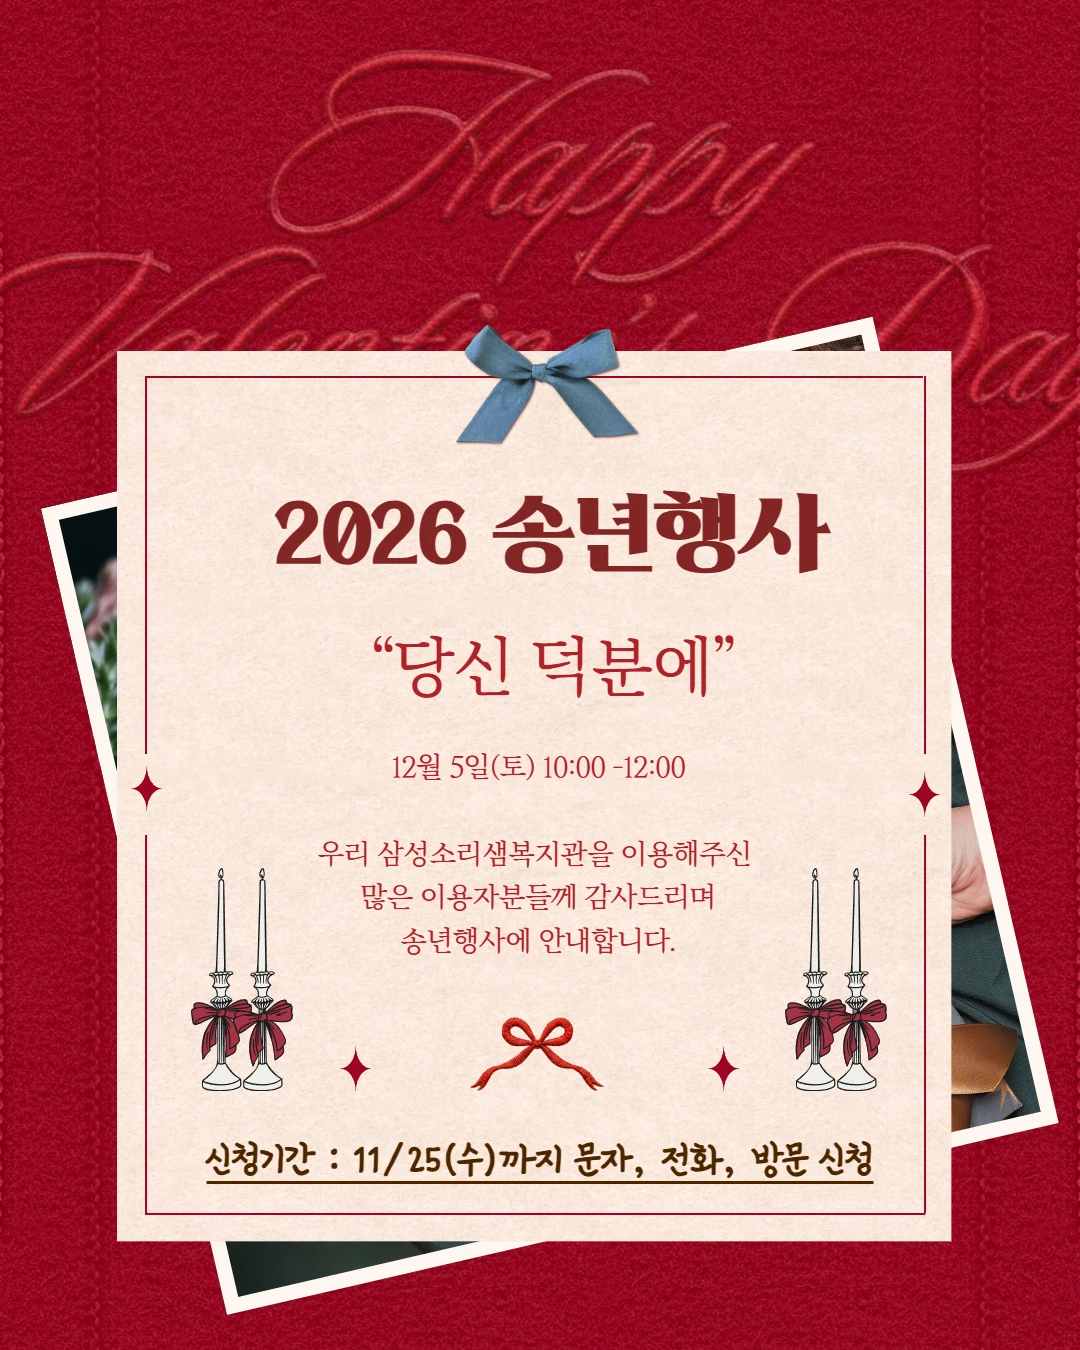
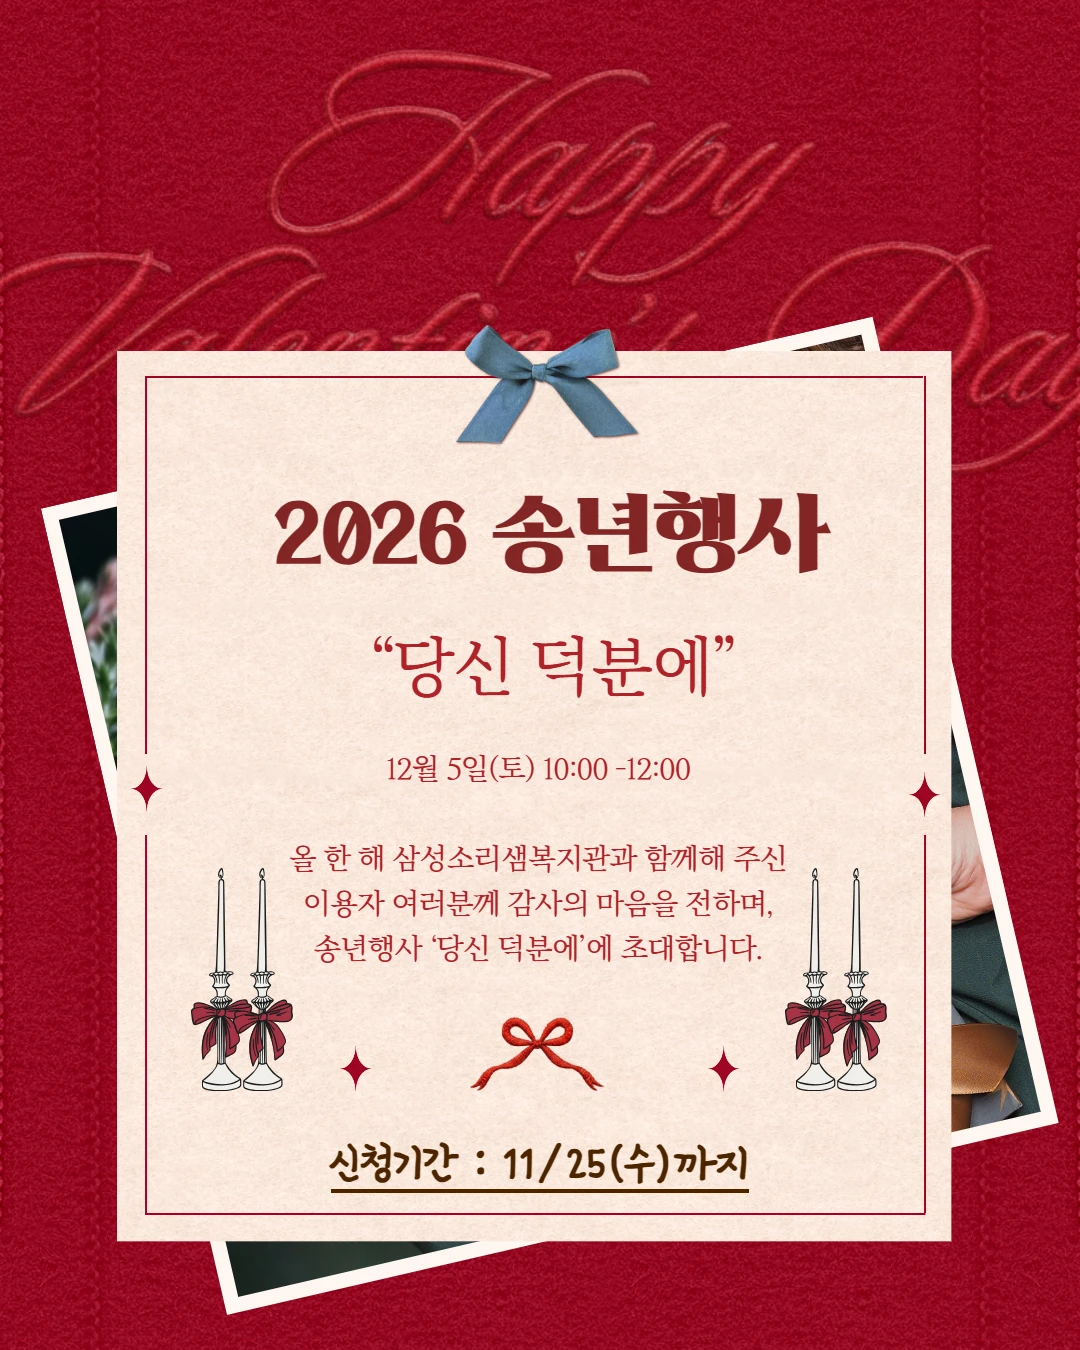
초대장 이미지 교체, 신청 방법 개편, 공유하기 삭제
- 1·2번 섹션 이미지를 새 디자인으로 교체
- 신청 방법: 온라인 신청 버튼, 문의, 문자 신청 안내 순서로 재구성 (배경은 유지)
- 11/25 마감 이후 참가 신청 버튼 비활성화
- 핸드폰번호는 숫자만 받고 '-' 자동 입력, 생년월일은 숫자와 '.'만
- 공유하기 섹션과 카카오 SDK 삭제

Changed region(s): [[0.275, 0.6222, 0.7333, 0.7156], [0.1833, 0.84, 0.825, 0.9022], [0.3667, 0.56, 0.6417, 0.5911]]

diff --git a/index.html b/index.html
@@ -87,36 +87,19 @@
   .sprig--bl { bottom: -50px; left: -22px; transform: scaleY(-1) rotate(10deg); }
   .sprig--br { bottom: -50px; right: -22px; transform: scale(-1, -1) rotate(10deg); }
 
-  .lead { font-family: "Jua", sans-serif; font-size: 1.5rem; margin: 0 0 1.4rem; color: var(--ink); }
-  .contact { margin: 0 auto 1.6rem; display: grid; gap: .5rem; font-size: 1.12rem; }
-  .contact div { display: flex; flex-wrap: wrap; justify-content: center; gap: 0 .5em; }
-  .contact dt { font-family: "Jua", sans-serif; }
-  .contact dd { margin: 0; }
-  .contact a { color: var(--holly); font-weight: 700; text-underline-offset: 3px; }
-  .deadline {
-    display: inline-block; margin: 0 0 1.2rem; padding: .35em 1em;
-    font-family: "Jua", sans-serif; font-size: 1.1rem; color: #fff;
-    background: var(--holly); border-radius: 999px;
+  .lead { font-size: 1.3rem; margin: 0 0 1.6rem; color: var(--ink); }
+  .ask-title { margin-top: 2.2em; }
+  .ask {
+    display: block; max-width: 460px; margin: 0 auto 1.8rem; padding: .5em 1em; border-radius: 14px;
+    font: 400 1.35rem/1.3 "Jua", sans-serif; color: #fff; text-decoration: none;
+    background: #d13a34; box-shadow: 0 3px 0 #7c1520;
   }
-
-  .divider { display: flex; align-items: center; justify-content: space-between; width: min(100%, 360px); height: 10px; margin: 1.4rem auto; position: relative; }
-  .divider::before { content: ""; position: absolute; left: 0; right: 0; top: 50%; height: 1px; background: var(--holly); opacity: .7; }
-  .divider i { position: relative; width: 9px; height: 9px; background: var(--holly); transform: rotate(45deg); }
-  .divider i:first-child { margin-left: 18%; }
-  .divider i:last-child { margin-right: 18%; }
-
-  .howto p { margin: 0; font-size: 1.1rem; }
-  .howto .label { font-family: "Jua", sans-serif; font-size: 1.25rem; margin-bottom: .2rem; }
-  .sample {
-    margin: 1.4rem auto 0; padding: 14px 18px; max-width: 420px;
-    border: 1.5px dashed rgba(179, 32, 46, .5); border-radius: 14px;
-    font-size: 1.05rem; background: rgba(255, 255, 255, .45);
-  }
-  .howto .sample { margin: 1.4rem auto 0; }
+  .ask:hover { background: #c4283a; }
+  .howto p { margin: 0; font-size: 1.1rem; color: #1d1410; }
+  .howto .label { font-family: "Jua", sans-serif; font-size: 1.2rem; margin-top: 1.4rem; }
   .nw { white-space: nowrap; }
-  .sample strong { font-family: "Jua", sans-serif; font-weight: 400; display: block; color: var(--holly); }
 
-  .actions { display: grid; grid-template-columns: 1fr 1fr; gap: 10px; margin-top: 2rem; }
+  .actions { display: grid; grid-template-columns: 1fr 1fr; gap: 14px; max-width: 460px; margin: 0 auto; }
   .btn {
     display: inline-flex; align-items: center; justify-content: center; gap: .4em;
     min-height: 54px; padding: 0 16px; border-radius: 12px;
@@ -124,6 +107,7 @@
     border: 2px solid transparent; transition: transform .15s ease, background-color .15s ease;
   }
   .btn:active { transform: translateY(1px); }
+  .btn:disabled { background: #b9ada0; color: #fff; box-shadow: none; cursor: default; transform: none; }
   .btn--holly { background: var(--holly); color: #fff; box-shadow: 0 3px 0 #7c1520; }
   .btn--holly:hover { background: #c4283a; }
   .btn--pine { background: var(--pine); color: var(--paper-hi); box-shadow: 0 3px 0 #0d1d14; }
@@ -176,16 +160,6 @@
   .btn--naver:hover { background: #02b351; }
   .btn--kakao { background: #fee500; color: #191600; }
   .btn--kakao:hover { background: #f5dc00; }
-
-  /* ---------- 5. 공유 ---------- */
-  .share { padding: 64px 0 72px; text-align: center; color: var(--paper-hi); }
-  .share h2 { color: var(--paper-hi); font-size: clamp(2rem, 8.5vw, 2.7rem); }
-  .share p { margin: 0 0 1.6rem; font-size: 1.08rem; opacity: .9; }
-  .share-actions { display: grid; grid-template-columns: repeat(3, 1fr); gap: 10px; }
-  .share-actions .btn { flex-direction: column; min-height: 92px; gap: .55em; font-size: 1rem; padding: 0 8px; }
-  .share-actions svg { width: 28px; height: 28px; }
-  .btn--glass { background: rgba(255, 255, 255, .1); color: #fff; border-color: rgba(255, 255, 255, .35); }
-  .btn--glass:hover { background: rgba(255, 255, 255, .18); }
 
   /* ---------- 모달 ---------- */
   dialog {
@@ -290,7 +264,6 @@
     .gate-inner { padding: 0 36px; }
     .card { padding: 52px 18px 40px; }
     .map-actions { grid-template-columns: 1fr; }
-    .share-actions .btn { font-size: .92rem; }
   }
   @media (prefers-reduced-motion: reduce) {
     .bulb { animation: none; }
@@ -344,7 +317,7 @@
   <section class="band band--felt" aria-label="초대장">
     <div class="wrap poster">
       <img src="images/1.webp" width="1080" height="1350"
-        alt="2026 송년행사 “당신 덕분에”. 12월 5일(토) 10:00–12:00. 우리 삼성소리샘복지관을 이용해주신 많은 이용자분들께 감사드리며 송년행사에 안내합니다. 신청기간: 11/25(수)까지 문자, 전화, 방문 신청">
+        alt="2026 송년행사 “당신 덕분에”. 12월 5일(토) 10:00–12:00. 올 한 해 삼성소리샘복지관과 함께해 주신 이용자 여러분께 감사의 마음을 전하며, 송년행사 ‘당신 덕분에’에 초대합니다. 신청기간: 11/25(수)까지">
     </div>
   </section>
 
@@ -352,7 +325,7 @@
   <section class="band band--paper" aria-label="행사 소개">
     <div class="wrap poster">
       <img src="images/2.webp" width="1080" height="1350" loading="lazy"
-        alt="2026 송년행사. 당신 덕분에, 더 따뜻한 연말. 눈앞에서 펼쳐지는 신나는 마술쇼, 함께 나누는 정성껏 차린 다과, 그리고 한 해의 감사한 마음을 담아 준비한 풍성한 선물까지! 즐길 거리와 맛있는 간식이 가득한 소리샘 송년행사에 여러분을 초대합니다. 사진: 눈이 즐거운 마술쇼와 다양한 공연, 정성껏 차린 다과, 풍성하고 다양한 선물">
+        alt="2026 송년행사. 당신 덕분에, 더 따뜻한 연말. 눈앞에서 펼쳐지는 신나는 마술쇼, 함께 나누는 정성껏 차린 다과, 그리고 한 해의 감사한 마음을 담아 준비한 풍성한 선물까지! 즐길 거리와 맛있는 간식이 가득한 소리샘 송년행사에 여러분을 초대합니다. 사진: 눈이 즐거운 마술쇼와 아이들이 준비한 합창, 낭독극, 정성껏 차린 다과, 풍성하고 다양한 선물">
     </div>
   </section>
 
@@ -377,27 +350,22 @@
         <svg class="sprig sprig--bl" aria-hidden="true"><use href="#holly"/></svg>
         <svg class="sprig sprig--br" aria-hidden="true"><use href="#holly"/></svg>
 
-        <h2 id="apply-title">신청방법</h2>
-        <p class="lead">문자, 전화, 방문 신청</p>
-        <p class="deadline">11월 25일(수)까지 신청</p>
-
-        <dl class="contact">
-          <div><dt>전화&amp;문자</dt><dd><a href="tel:028241411">02-824-1411</a></dd></div>
-          <div><dt>방문</dt><dd>삼성소리샘복지관 2층 사무실</dd></div>
-          <div><dt>담당</dt><dd>조수연 사회복지사</dd></div>
-        </dl>
-
-        <div class="divider" aria-hidden="true"><i></i><i></i><i></i></div>
-
-        <div class="howto">
-          <p class="label">이렇게 보내주세요!</p>
-          <p>이름 / 생년월일 / 핸드폰번호 /<br>참여 가족 수 / 문자 수신 동의</p>
-          <p class="sample"><strong>문자 예시</strong><span class="nw">홍길동/99.12.05./</span><span class="nw">010-1234-5678</span><br><span class="nw">/나, 엄마, 아빠 3명/네</span></p>
-        </div>
-
+        <h2 id="apply-title">신청 방법</h2>
+        <p class="lead">11월 25일(수)까지 온라인 신청</p>
         <div class="actions">
           <button type="button" class="btn btn--holly" data-open="dlg-apply">참가 신청하기</button>
-          <button type="button" class="btn btn--pine" data-open="dlg-check">신청확인</button>
+          <button type="button" class="btn btn--pine" data-open="dlg-check">신청 확인</button>
+        </div>
+
+        <h2 class="ask-title">문의</h2>
+        <a class="ask" href="tel:028241411">조수연 사회복지사 <span class="nw">02-824-1411</span></a>
+
+        <div class="howto">
+          <p>온라인 신청이 어렵다면 문자, 전화, 방문 신청이 가능합니다.</p>
+          <p class="label">이렇게 보내주세요!</p>
+          <p>이름 / 생년월일 / 핸드폰번호 / 참여 가족 / 문자 수신 동의</p>
+          <p class="label">문자 예시</p>
+          <p><span class="nw">홍길동 / 99.12.05. /</span> <span class="nw">010-1234-5678</span><br><span class="nw">/ 나, 엄마, 아빠 3명 / 네</span></p>
         </div>
       </div>
     </div>
@@ -419,28 +387,6 @@
       </div>
     </div>
   </section>
-
-  <!-- 5. 공유 -->
-  <section class="band band--felt share" aria-labelledby="share-title">
-    <div class="wrap">
-      <h2 id="share-title">초대장 공유하기</h2>
-      <p>함께 오고 싶은 분께 초대장을 보내주세요</p>
-      <div class="share-actions">
-        <button type="button" class="btn btn--kakao" id="btn-kakao-share">
-          <svg viewBox="0 0 24 24" aria-hidden="true"><path fill="currentColor" d="M12 3C6.5 3 2 6.6 2 11c0 2.8 1.9 5.3 4.7 6.7l-1 3.6c-.1.3.3.6.6.4l4.2-2.8c.5.1 1 .1 1.5.1 5.5 0 10-3.6 10-8S17.5 3 12 3z"/></svg>
-          카카오톡 공유
-        </button>
-        <button type="button" class="btn btn--glass" id="btn-share">
-          <svg viewBox="0 0 24 24" aria-hidden="true" fill="none" stroke="currentColor" stroke-width="2" stroke-linecap="round" stroke-linejoin="round"><circle cx="18" cy="5" r="3"/><circle cx="6" cy="12" r="3"/><circle cx="18" cy="19" r="3"/><path d="M8.6 13.5l6.8 4M15.4 6.5l-6.8 4"/></svg>
-          공유하기
-        </button>
-        <button type="button" class="btn btn--glass" id="btn-link">
-          <svg viewBox="0 0 24 24" aria-hidden="true" fill="none" stroke="currentColor" stroke-width="2" stroke-linecap="round" stroke-linejoin="round"><path d="M10 13a5 5 0 0 0 7.5.5l3-3a5 5 0 0 0-7-7l-1.7 1.7"/><path d="M14 11a5 5 0 0 0-7.5-.5l-3 3a5 5 0 0 0 7 7l1.7-1.7"/></svg>
-          링크 복사
-        </button>
-      </div>
-    </div>
-  </section>
 </main>
 
 <!-- 참가 신청 -->
@@ -449,8 +395,8 @@
     <h3 id="dlg-apply-title">참가 신청하기</h3>
     <p class="hint">11월 25일(수)까지 받아요</p>
     <div class="field"><label for="a-name">이름</label><input type="text" id="a-name" name="name" required autocomplete="name"></div>
-    <div class="field"><label for="a-birth">생년월일 (예: 99.12.05)</label><input type="text" id="a-birth" name="birth" required inputmode="numeric" placeholder="99.12.05"></div>
-    <div class="field"><label for="a-phone">핸드폰번호</label><input type="tel" id="a-phone" name="phone" required autocomplete="tel" placeholder="010-1234-5678" pattern="01[0-9]-?[0-9]{3,4}-?[0-9]{4}"></div>
+    <div class="field"><label for="a-birth">생년월일 (예: 99.12.05)</label><input type="text" id="a-birth" name="birth" required inputmode="decimal" maxlength="10" placeholder="99.12.05"></div>
+    <div class="field"><label for="a-phone">핸드폰번호</label><input type="tel" id="a-phone" name="phone" required autocomplete="tel" inputmode="numeric" maxlength="13" placeholder="010-1234-5678" pattern="01[0-9]-?[0-9]{3,4}-?[0-9]{4}"></div>
     <div class="field"><label for="a-family">참여 가족 (예: 나, 엄마, 아빠 3명)</label><input type="text" id="a-family" name="family" required></div>
     <fieldset class="field">
       <legend>문자 수신 동의</legend>
@@ -475,7 +421,7 @@
     <h3 id="dlg-check-title">신청확인</h3>
     <p class="hint">신청할 때 적은 이름과 번호를 입력하세요</p>
     <div class="field"><label for="c-name">이름</label><input type="text" id="c-name" name="name" required autocomplete="name"></div>
-    <div class="field"><label for="c-phone">핸드폰번호</label><input type="tel" id="c-phone" name="phone" required autocomplete="tel" placeholder="010-1234-5678" pattern="01[0-9]-?[0-9]{3,4}-?[0-9]{4}"></div>
+    <div class="field"><label for="c-phone">핸드폰번호</label><input type="tel" id="c-phone" name="phone" required autocomplete="tel" inputmode="numeric" maxlength="13" placeholder="010-1234-5678" pattern="01[0-9]-?[0-9]{3,4}-?[0-9]{4}"></div>
     <div class="dlg-actions">
       <button type="button" class="btn btn--line" data-close>닫기</button>
       <button type="submit" class="btn btn--pine">확인하기</button>
@@ -516,20 +462,17 @@
 
 <script src="https://code.jquery.com/jquery-3.7.1.min.js"></script>
 <script src="https://cdn.jsdelivr.net/npm/iconify-icon@2.1.0/dist/iconify-icon.min.js"></script>
-<script src="https://t1.kakaocdn.net/kakao_js_sdk/2.7.4/kakao.min.js" crossorigin="anonymous"></script>
 <script>
   // 운영 전에 채워주세요
   var CONFIG = {
     googleMapsKey: '',   // Google Maps JavaScript API 키 (비우면 키 없는 임베드 지도 + 같은 인포윈도우)
-    kakaoJsKey: '4f131acdbdb6a79d672e6899c8944908', // Kakao Developers 앱 1656936 (도메인: https://sonic0506.github.io)
     applyEndpoint: 'https://script.google.com/macros/s/AKfycbwXU4yrpxhV0qmFfu6bnivtkGD4TV73e6xW16GxJ01vdy_Z3rw9uKj93R1v44Hy--_c/exec' // apps-script/Code.gs 웹 앱 (시트: 2026 송년행사 신청)
   };
   var PLACE = { name: '삼성소리샘복지관', lat: 37.4989636, lng: 126.9461588 };
   var EVENT_TEL = '02-824-1411';
+  var DEADLINE = new Date('2026-11-26T00:00:00+09:00'); // apps-script/Code.gs 와 같은 마감 시각
 
   $(function () {
-    var pageUrl = location.href.split('#')[0];
-
     /* ---------- 배경음악 (기본 꺼짐) ---------- */
     var audio = document.getElementById('bgm-audio');
     function setMusic(on) {
@@ -621,35 +564,27 @@
     $('#btn-naver').attr('href', 'https://map.naver.com/index.nhn?menu=route&pathType=0&elng=' + PLACE.lng + '&elat=' + PLACE.lat + '&etext=' + encodeURIComponent(PLACE.name));
     $('#btn-kakao').attr('href', 'https://map.kakao.com/link/to/' + encodeURIComponent(PLACE.name) + ',' + PLACE.lat + ',' + PLACE.lng);
 
-    /* ---------- 공유 ---------- */
-    var shareData = { title: '2026 송년행사 “당신 덕분에”', text: '12월 5일(토) 10:00, 삼성소리샘복지관 송년행사에 초대합니다.', url: pageUrl };
-
-    if (CONFIG.kakaoJsKey && window.Kakao && !Kakao.isInitialized()) Kakao.init(CONFIG.kakaoJsKey);
-    $('#btn-kakao-share').on('click', function () {
-      if (!window.Kakao || !Kakao.isInitialized()) { toast('카카오톡 공유를 준비 중이에요. 링크 복사를 이용해주세요'); return; }
-      Kakao.Share.sendDefault({
-        objectType: 'feed',
-        content: {
-          title: shareData.title, description: shareData.text,
-          imageUrl: new URL('images/1.webp', pageUrl).href,
-          link: { mobileWebUrl: pageUrl, webUrl: pageUrl }
-        },
-        buttons: [{ title: '초대장 보기', link: { mobileWebUrl: pageUrl, webUrl: pageUrl } }]
-      });
-    });
-    $('#btn-share').on('click', function () {
-      if (navigator.share) navigator.share(shareData).catch(function () {});
-      else copy(pageUrl, '이 브라우저는 공유하기를 지원하지 않아 링크를 복사했어요');
-    });
-    $('#btn-link').on('click', function () { copy(pageUrl, '초대장 링크를 복사했어요'); });
-
     /* ---------- 신청 / 확인 ---------- */
+    if (new Date() >= DEADLINE) $('[data-open=dlg-apply]').prop('disabled', true).text('신청이 마감됐어요');
+
     $('[data-open]').on('click', function () {
       var dlg = document.getElementById($(this).data('open'));
       $(dlg).find('.result').text('');
       dlg.showModal();
     });
     $('[data-close]').on('click', function () { this.closest('dialog').close(); });
+
+    // 핸드폰번호: 숫자만 남기고 010-1234-5678 (옛 10자리 번호는 011-123-4567) 형태로 '-' 자동 입력
+    $('input[type=tel]').on('input', function () {
+      var d = this.value.replace(/\D/g, '').slice(0, 11);
+      var mid = d.indexOf('010') === 0 || d.length === 11 ? 4 : 3;
+      this.value = [d.slice(0, 3), d.slice(3, 3 + mid), d.slice(3 + mid)].filter(Boolean).join('-');
+    });
+    // 생년월일: 숫자와 '.' 만
+    $('#a-birth').on('input', function () {
+      var v = this.value.replace(/[^\d.]/g, '');
+      if (v !== this.value) this.value = v; // 바뀔 때만 넣어야 커서가 끝으로 튀지 않음
+    });
 
     function invalid(form) {
       var $bad = $(form).find(':invalid').first();
